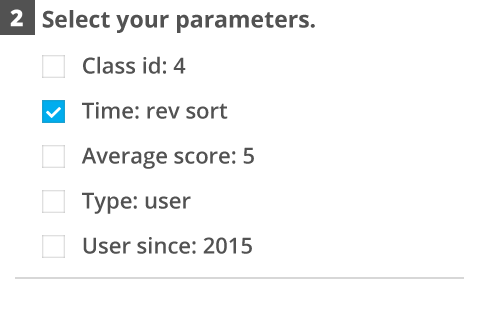
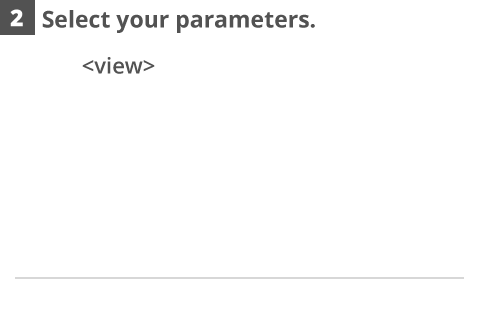
GUI-573 Finish hack for tomorrow's demo

diff --git a/widget/widget.less b/widget/widget.less
@@ -32,12 +32,18 @@
     .step;
 }
 
+#step6 {
+    background: url("img/step6.png");
+    .step;
+}
+
 .button {
     background-size: 60px 16px;
     width: 60px;
     height: 16px;
     top: 146px;
     position: absolute;
+    cursor: pointer;
 }
 
 .backButton {
@@ -52,10 +58,183 @@
     left: 172px;
 }
 
+.publish {
+    background: url("img/publish.png") !important;
+    background-size: 60px 16px !important;
+    left: 172px;
+    .button
+}
+
 .activeRadio {
-    background: url("img/activeRadio.png");
+    background: url("img/radioActive.png") !important;
+    background-size: 11px 11px !important;
 }
 
 .radio {
     background: url("img/radio.png");
+    background-size: 11px 11px;
+    width: 11px;
+    height: 11px;
+    left: 21px;
+    position: absolute;
+    cursor: pointer;
+}
+
+#radio1 {
+    top: 28px;
+}
+
+#radio2 {
+    top: 50px;
+}
+
+#radio3 {
+    top: 72px;
+}
+
+#radio4 {
+    top: 95px;
+}
+
+#radio5 {
+    top: 117px;
+}
+
+.choice {
+    .fontStd;
+    position: absolute;
+    left: 42px;
+}
+
+#choice1 {
+    top: 27px;
+}
+
+#choice2 {
+    top: 49px;
+}
+
+#choice3 {
+    top: 71px;
+}
+
+#choice4 {
+    top: 94px;
+}
+
+#choice5 {
+    top: 116px;
+}
+
+.activeCheck {
+    background: url("img/checkboxActive.png") !important;
+    background-size: 11px 11px !important;
+}
+
+.check {
+    background: url("img/checkbox.png");
+    background-size: 11px 11px;
+    width: 11px;
+    height: 11px;
+    left: 21px;
+    position: absolute;
+    cursor: pointer;
+}
+
+#check1 {
+    top: 27px;
+}
+
+.texta {
+    font-family: tahoma;
+    size: 10px;
+    top: 44px;
+    left: 19px;
+    width: 194px;
+    height: 48px;
+    outline: none;
+    position: absolute;
+    resize: none;
+    background-color: transparent;
+    border: 0px;
+}
+
+.textb {
+    font-family: tahoma;
+    size: 10px;
+    top: 26px;
+    width: 95px;
+    left: 130px;
+    height: 15px;
+    outline: none;
+    position: absolute;
+    background-color: transparent;
+    border: 0px;
+}
+
+.option {
+    font-family: tahoma;
+    font-size: 11px;
+    left: 22px;
+    position: absolute;
+}
+
+.optionVal {
+    font-family: tahoma;
+    font-size: 11px;
+    position: absolute;
+    left: 100px;
+    border: 1px solid #E0E0E0;
+    outline: none;
+    background-color: transparent;
+}
+
+#option1 {
+    top: 50px;
+}
+
+#option2 {
+    top: 72px;
+}
+
+#option3 {
+    top: 94px;
+}
+
+.fontStd {
+    font-family: tahoma;
+    font-size: 11px;
+    position: absolute;
+}
+
+#widgetType {
+    .fontStd;
+    left: 85px;
+    top: 30px;
+}
+
+#parameter {
+    .fontStd;
+    left: 105px;
+    top: 52px;
+}
+
+#inst {
+    .fontStd;
+    left: 114px;
+    top: 75px;
+}
+
+#options {
+    .fontStd;
+    left: 95px;
+    top: 97px;
+}
+
+#title {
+    font-family: tahoma;
+    font-size: 13px;
+    position: absolute;
+    left: 5px;
+    top: 5px;
 }

diff --git a/widget/widget.js b/widget/widget.js
@@ -3,6 +3,7 @@ function startup() {
     $("#step3").hide();
     $("#step4").hide();
     $("#step5").hide();
+    $("#step6").hide();
     attachListeners();
 }
 
@@ -21,8 +22,61 @@ function nextListener() {
     $("#step"+nextId).show();
 }
 
+function radioListener() {
+    $(".radio").removeClass("activeRadio");
+    $(this).addClass("activeRadio");
+}
+
+function checkListener() {
+    $(this).toggleClass("activeCheck");
+}
+
+function textboxListener() {
+    var numOptions = $("#textbox").val();
+    var html = "";
+    for (var i = 0; i<numOptions; i++) {
+        html += '<div id="option'+(i+1)+'" class="option">Option '+
+                 (i+1)+': </div>';
+        html += '<input type="textbox" id="option'+(i+1)+
+                '" class="optionVal"></div>';
+    }
+    $("#textbox").after(html);
+}
+
+function confirmListener() {
+    $("#widgetType").text("Radio Buttons");
+    $("#parameter").text("<view>");
+    $("#inst").text($("#instructions").val().substring(0, 15)+"...");
+    var optStr = "";
+    for (var i = 0; i<$("#textbox").val(); i++) {
+        optStr += $(".optionVal#option"+(i+1)).val()+" ";
+    }
+    $("#options").text(optStr);
+}
+
+function publishListener() {
+    var html = "";
+    for (var i = 0; i<$("#textbox").val(); i++) {
+        html += '<div id="radio'+(i+1)+'" class="radio"></div>';
+        html += '<div id="choice'+(i+1)+'" class="choice">'+
+                $(".optionVal#option"+(i+1)).val()+'</div>';
+    }
+    $("#title").text($("#instructions").val());
+    $("#title").after(html);
+    $("#step6 #radio1").click();
+}
+
 function attachListeners() {
     $(".backButton").click(backListener);
     $(".nextButton").click(nextListener);
+    $(document).on("click", ".radio", radioListener);
+    $(".check").click(checkListener);
+    $("#textbox").keypress(function(e) {
+        if (e.which == 13) {
+            textboxListener();
+        }
+    });
+    $("#next4").click(confirmListener);
+    $(".publish").click(publishListener);
 }
     

diff --git a/widget/main.html b/widget/main.html
@@ -7,20 +7,36 @@
 <body>
 <div id="step1" class="step">
     <div id="next1" class="nextButton"></div>
+    <div id="radio1" class="radio"></div>
+    <div id="radio2" class="radio"></div>
+    <div id="radio3" class="radio activeRadio"></div>
+    <div id="radio4" class="radio"></div>
+    <div id="radio5" class="radio"></div>
 </div>
 <div id="step2" class="step">
-<div id="back2" class="backButton"></div>
-<div id="next2" class="nextButton"></div>
+    <div id="check1" class="check"></div>
+    <div id="back2" class="backButton"></div>
+    <div id="next2" class="nextButton"></div>
 </div>
 <div id="step3" class="step">
-<div id="back3" class="backButton"></div>
-<div id="next3" class="nextButton"></div>
+    <textarea class="texta" id="instructions"></textarea>
+    <div id="back3" class="backButton"></div>
+    <div id="next3" class="nextButton"></div>
 </div>
 <div id="step4" class="step">
-<div id="back4" class="backButton"></div>
-<div id="next4" class="nextButton"></div>
+    <input type="textbox" id="textbox" class="textb"></input>
+    <div id="back4" class="backButton"></div>
+    <div id="next4" class="nextButton"></div>
 </div>
 <div id="step5" class="step">
+    <div id="widgetType"></div>
+    <div id="parameter"></div>
+    <div id="inst"></div>
+    <div id="options"></div>
+    <div id="next5" class="nextButton publish"></div>
+</div>
+<div id="step6" class="step">
+    <div id="title"></div>
 </div>
 <!--
 <div id="step4" class="step">
